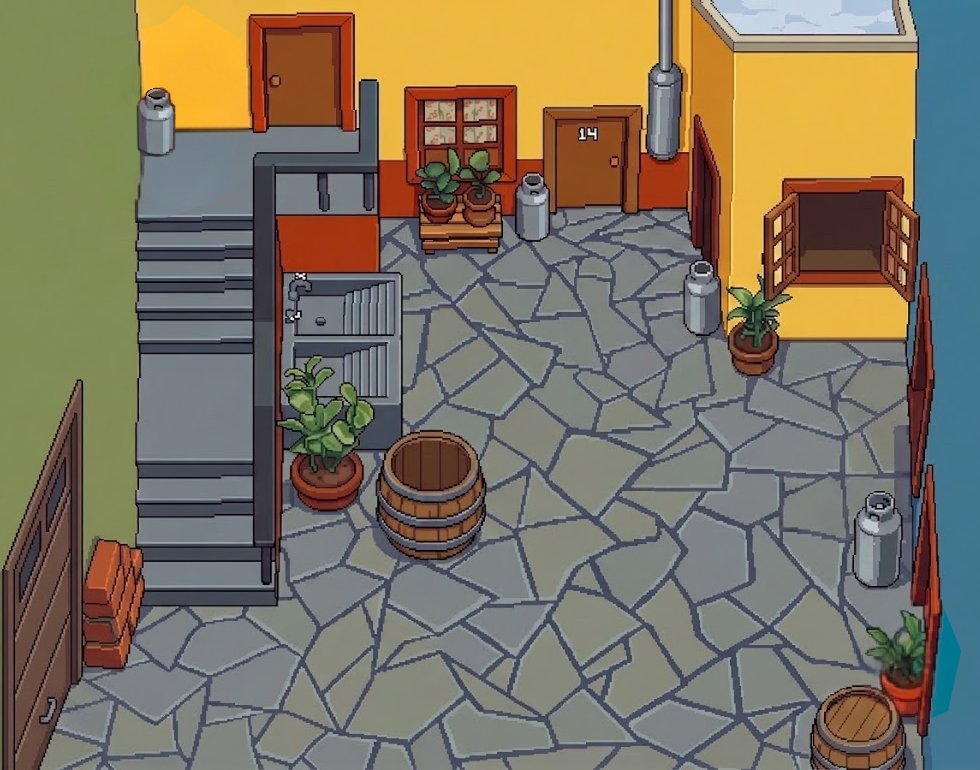
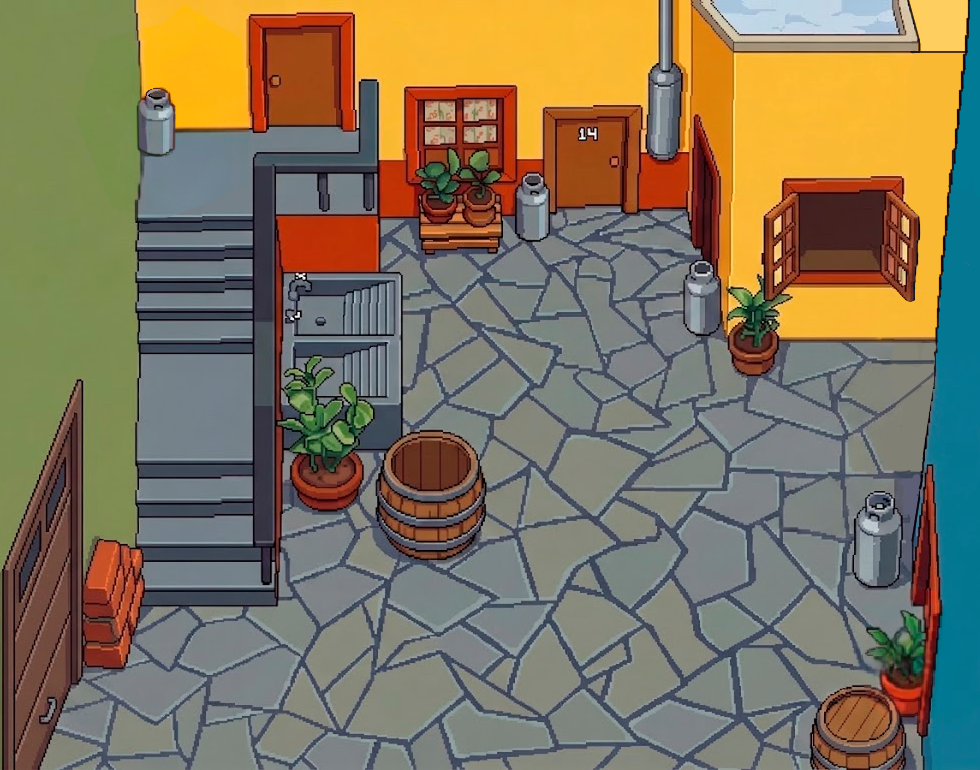
Adicionado overlay do cenário 0 e troca de cenários.

diff --git a/classes/mapa.py b/classes/mapa.py
@@ -53,38 +53,35 @@ def iniciar_cenarios() :
     #Inicia as colisoes do cenario 0
     cenario_0 = {
     (1, "*"),
-    (2, 1), (2, 3), (2, 5), (2, 6), (2, 7), (2, 8), (2, 9),
-    (3, 1), (3, 3), (3, 4), (3, 5), (3, 10),
-    (4, 1), (4, 3), (4, 5), (4, 10), (4, 11), (4, 12),
-    (5, 1), (5, 3), (5, 5), (5, 13),
-    (6, 1), (6, 3), (6, 4), (6, 5), (6, 6), (6, 13),
-    (7, 1), (7, 3), (7, 5), (7, 6), (7, 12), (7, 13),
+    (2, 1), (2, 5), (2, 6), (2, 7), (2, 8), (2, 9),
+    (3, 1), (3, 4), (3, 5),
+    (4, 1), (4, 5), (4, 10), (4, 11), (4, 12),
+    (5, 1), (5, 5),
+    (6, 1), (6, 4), (6, 5), (6, 6),
+    (7, 1), (7, 4), (7, 5), (7, 6), (7, 12),
     (8, 1), (8, 3), (8, 13),
-    (9, 1), (9, 13),
-    (10, 11), (10, 12),
+    (9, 1), (9, 13), (6,13),
+    (10, 11), (10, 12), (4, 13),
     ("*", 0)
     }
 
     #Inicia as colisoes do cenario 1
     cenario_1 = {
-        ("*", 1),(1, "*"),(2, "*"),
-        (3, 3),(3, 4),(3, 5),(3, 6),(3, 7),(3, 10),(3, 11),(3, 12),(3, 13),
-        (4, 3),(4, 4),(4, 5),(4, 6),(4, 7),(4, 10),(4, 11),(4, 12),(4, 13),
-        (5, 3),(5, 4),(5, 5),(5, 13),
-        (6, 3),(6, 4),(6, 5),(6, 13),
-        (7, 3),(7, 5),(7, 13),
-        (8, 13),
-        (9, 11),(9, 12),(9, 13),
-        (10, 11),(10, 12),(10, 13),
-        ("*", 0)
+        (5, 3), (5, 4), (6, 3), (6, 4), (2, "*"),
+        (3, 0), (3, 1), (3, 2), (3, 3), (3, 5),
+        (3, 7), (3, 8), (3, 9), (4, 10), (4, 11), (5, 11),
+        (6, 12), (7, 13),
+        (10, 0), (10, 1), (10, 2), (10, 3), (10, 4), (10, 5),
+        (10, 8), (10, 9), (10, 10), (10, 11), (10, 12), (10, 13),
+        ("*", 13), (9,12)
     }
 
     #Inicia as colisoes do cenario 2
     cenario_2 = {
         (1, "*"),
         (2, 1),(2, 2),(2, 3),(2, 4),(2, 5),(2, 6),(2, 7),(2, 8),(2, 10),(2, 11),(2, 12),
-        (3, 1),(3, 2),(3, 3),(3, 10),(3, 11),(3, 12)
-        (4, 1),(4, 2),(4, 3),(4, 8),(4, 9),(4, 11),(4, 12),
+        (3, 1),(3, 2),(3, 3),(3, 10),(3, 11),(3, 12),
+        (4, 1), (4, 2),(4, 3),(4, 8),(4, 9),(4, 11),(4, 12),
         (5, 1),(5, 2),(5, 3),
         (6, 1),(6, 2),(6, 3),
         (7, 1),(7, 2),(7, 3),(7, 5),(7, 6),(7, 8),

diff --git a/classes/personagem.py b/classes/personagem.py
@@ -38,20 +38,18 @@ class Player(pg.sprite.Sprite):
                 y, x = pos_atual[0], pos_atual[1]
                 yi, xi = y + direcao_v, x + direcao_h
 
-                if cenario == 0 and (yi, xi) == (3, 10): # testando portas
-                    self.proximocenario = 1
-                    self.teleportar(9, 7)
-                    return
-
 
                 if direcao_h != 0 and direcao_v != 0:
                     colisao = checar_colisao(y, xi, cenario) or checar_colisao(yi, x, cenario) or checar_colisao(yi, xi, cenario)
                 else :
                     colisao = checar_colisao(yi, xi, cenario)
                 if not colisao:
+
                     self.pos_matriz = (yi, xi)
                     self.proxima_pos = suposta_prox_pos
                     self.andando = True
+
+
 
     def teleportar(self, y, x):
         self.frame = 0
@@ -60,7 +58,7 @@ class Player(pg.sprite.Sprite):
         xi, yi = get_posicao_na_matriz(x, y)
         self.rect.center = (xi, yi)
 
-    def atualizar_movimento(self):
+    def atualizar_movimento(self, cenario):
         if (not self.andando):
             return
 
@@ -85,5 +83,26 @@ class Player(pg.sprite.Sprite):
         self.rect = self.rect.clamp(SCREENRECT)
 
         if (self.rect.center == self.proxima_pos):
+
+            if cenario == 1 and (self.pos_matriz == (10, 6) or self.pos_matriz == (10, 7)):  # testando portas
+                self.proximocenario = 0
+                self.teleportar(3, 9)
+                return
+
+            if cenario == 2 and self.pos_matriz[0] == 10:  # testando portas
+                self.proximocenario = 0
+                self.teleportar(5, 12)
+                return
+
+            if cenario == 0 and self.pos_matriz == (3, 10):  # testando portas
+                self.proximocenario = 1
+                self.teleportar(9, 7)
+                return
+
+            if cenario == 0 and self.pos_matriz == (5, 13):  # testando portas
+                self.proximocenario = 2
+                self.teleportar(9, 7)
+                return
+
             self.andando = False
             self.image = self.images[0]

diff --git a/classes/jogo.py b/classes/jogo.py
@@ -19,6 +19,11 @@ class Jogo:
 
         self.dicionario_mapas = {0: load_image("cenarios/cenario0.png").convert(), 1: load_image("cenarios/cenario1.png").convert(),
                                  2: load_image("cenarios/cenario2.png").convert()}
+
+
+        self.dicionario_mapas_overlays = {0: load_image("cenarios/overlays/cenario0_overlay.png").convert_alpha(), 1: pg.Surface((980, 770), pg.SRCALPHA).convert_alpha(),
+                                 2: pg.Surface((980, 770), pg.SRCALPHA).convert_alpha()}
+
         self.tela.blit(self.dicionario_mapas[0], (0, 0))
 
         pg.display.flip()
@@ -37,8 +42,8 @@ class Jogo:
 
     def executar(self):
         proximo_movimento = 0
-        cooldown_movimentos = 100
-        cooldown_movimentos_diagonal = 141.4
+        cooldown_movimentos = 70
+        cooldown_movimentos_diagonal = cooldown_movimentos * (2 ** 0.5)
 
         Player.images = [carregar_sprite("chaves/chaves_parado.png"),
                          carregar_sprite("chaves/chaves_baixo_1.png"),
@@ -86,12 +91,15 @@ class Jogo:
 
                     player.image = player.images[frame]
 
-                player.atualizar_movimento()
+                player.atualizar_movimento(self.cenario_atual)
 
             all.clear(self.tela, self.dicionario_mapas.get(self.cenario_atual))
 
             dirty = all.draw(self.tela)
-            pg.display.update(dirty)
+
+            self.tela.blit(self.dicionario_mapas_overlays.get(self.cenario_atual), (0, 0))
+            pg.display.flip()
+
             self.clock.tick(60)
 
         pg.quit()

diff --git a/README.md b/README.md
@@ -29,7 +29,7 @@ Relatório de desenvolvimento do jogo Missão pelo Sanduíche, desenvolvido para
 #### 1º&nbsp;:&nbsp;&nbsp;Verifique se já existe uma pasta de virtual environment. Ela pode aparecer como ".venv", "venv", ou semelhantes. Caso não haja, crie uma virtual environment chamada 'venv':
 
 ```shell
-python3 -m venv venv
+python3 -m .venv .venv
 ```
 
 #### 2º&nbsp;:&nbsp;&nbsp;Entre no ambiente virtual criado ou já existente para ser usado pelo projeto: Substitua "&lt;nome&gt;" pelo nome do virtual environment.